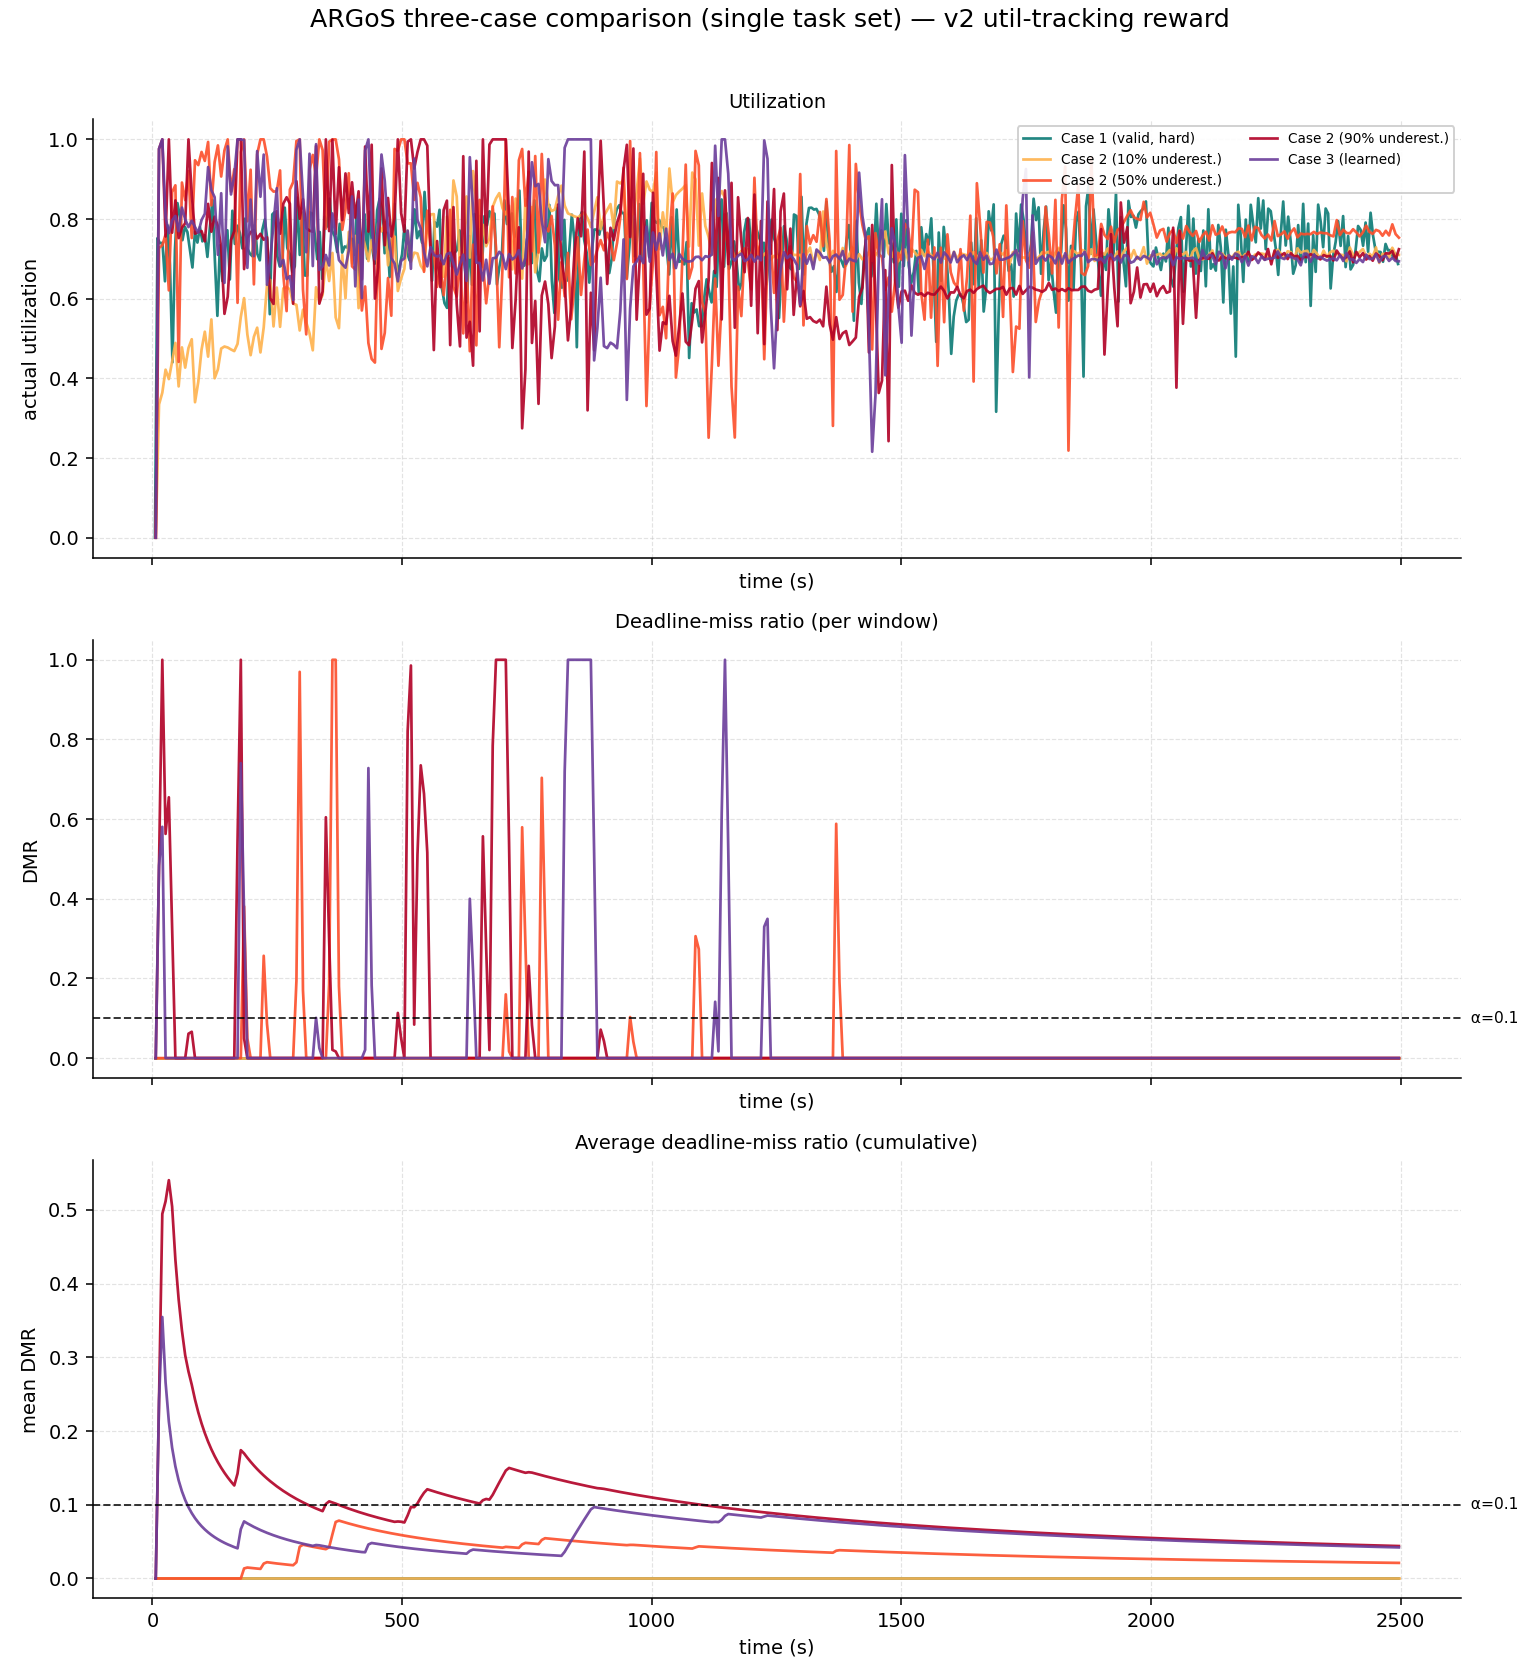
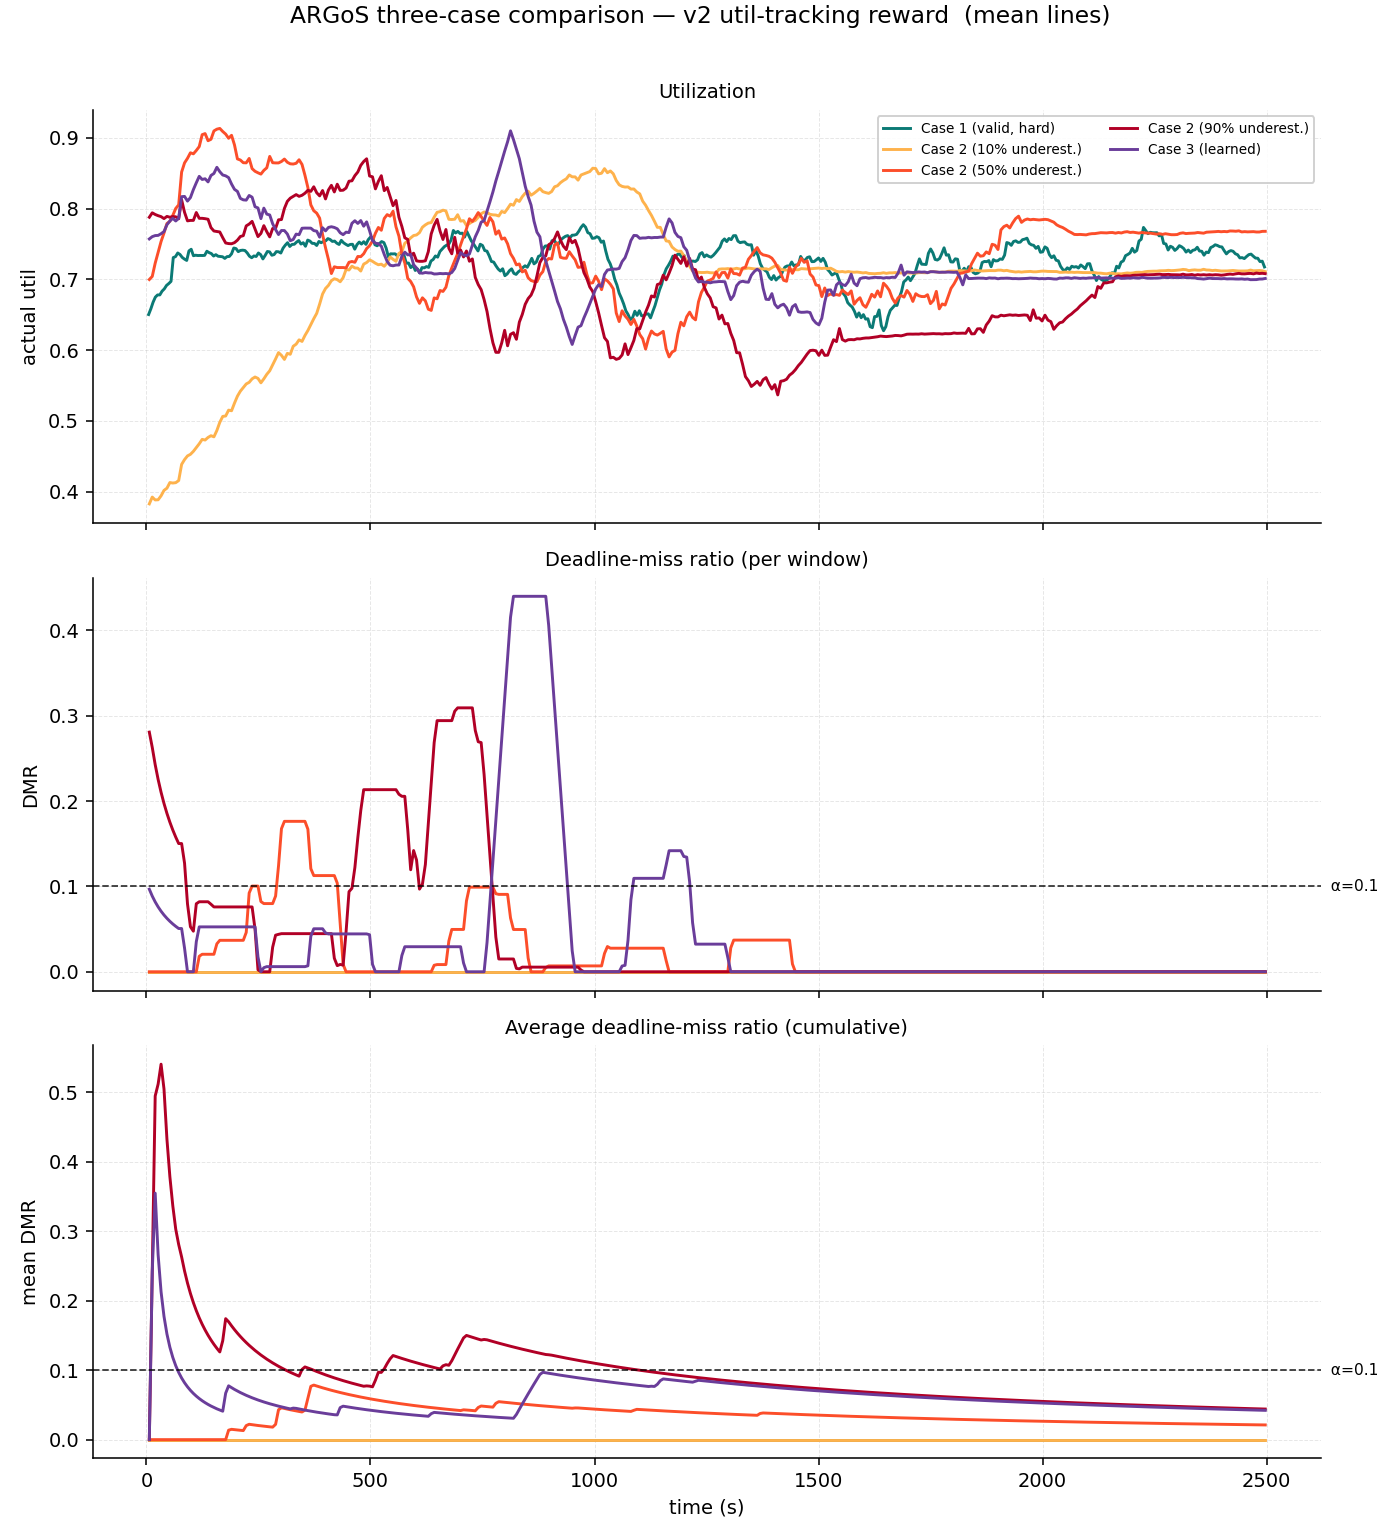
Figures: small multiples (mean line + min-max band) + mean-line overview
Replace the overlaid spaghetti of 5 noisy series with readable forms:
- utilization & per-window DMR: small multiples, one panel per case, rolling
  21-window mean line + min/max range band (shows trend + jitter envelope,
  no overlap).
- cumulative avg DMR: overlaid (already smooth; cross-case comparison).
- combined overview: mean lines only (raw jitter removed).
Regenerated for both paper and v2 reward sets.

diff --git a/scripts/fig_three_cases.py b/scripts/fig_three_cases.py
@@ -139,51 +139,90 @@ def _style(ax):
         ax.spines[sp].set_visible(False)
 
 
+def _rollband(y, w=21):
+    """Rolling (mean, min, max) over a centered window — the trend line + its range band."""
+    n, half = len(y), w // 2
+    m, lo, hi = [], [], []
+    for i in range(n):
+        a, b = max(0, i - half), min(n, i + half + 1)
+        seg = y[a:b]
+        m.append(sum(seg) / len(seg)); lo.append(min(seg)); hi.append(max(seg))
+    return m, lo, hi
+
+
 def plot():
     os.makedirs(FIG_DIR, exist_ok=True)
-    data = {tag: load_series(tag) for tag, *_ in cases()}
     specs = cases()
+    data = {tag: load_series(tag) for tag, *_ in specs}
+    rlabel = "Eq.1 QoS reward" if REWARD == "paper" else f"{REWARD} util-tracking reward"
 
-    # one combined 3-panel figure + three standalone figures
-    def draw(ax, key, title, ylabel, hline=None, smooth=1):
-        for tag, label, color, _ in specs:
+    # ---- small multiples: one panel per case, rolling-mean line + min/max range band ----
+    def small_multiples(key, metric_title, ylabel, hline=None, ylim=None):
+        n = len(specs)
+        fig, axes = plt.subplots(n, 1, figsize=(9, 1.55 * n), sharex=True, sharey=True)
+        for ax, (tag, label, color, _) in zip(axes, specs):
             d = data[tag]
-            y = _smooth(d[key], smooth) if smooth > 1 else d[key]
-            ax.plot(d["t"], y, color=color, lw=1.4, label=label, alpha=0.9)
-        if hline is not None:
-            ax.axhline(hline, color="black", ls="--", lw=1.0, alpha=0.8)
-            ax.text(ax.get_xlim()[1], hline, f"  α={hline}", va="center", fontsize=8)
-        ax.set_title(title, fontsize=10)
-        ax.set_ylabel(ylabel)
-        _style(ax)
+            m, lo, hi = _rollband(d[key])
+            ax.fill_between(d["t"], lo, hi, color=color, alpha=0.20, lw=0)   # range band
+            ax.plot(d["t"], m, color=color, lw=1.6)                           # mean line
+            if hline is not None:
+                ax.axhline(hline, color="black", ls="--", lw=0.8, alpha=0.7)
+            if ylim:
+                ax.set_ylim(*ylim)
+            ax.text(0.012, 0.86, label, transform=ax.transAxes, fontsize=8,
+                    color=color, fontweight="bold", va="top")
+            ax.grid(True, ls="--", alpha=0.3, lw=0.5)
+            for sp in ("top", "right"):
+                ax.spines[sp].set_visible(False)
+        axes[-1].set_xlabel("time (s)")
+        fig.supylabel(ylabel, fontsize=10)
+        fig.suptitle(f"{metric_title} — {rlabel}  (line = {21}-window mean, band = min–max)",
+                     fontsize=11, y=0.998)
+        fig.tight_layout(rect=[0.015, 0, 1, 0.99])
+        p = fig_path(key)
+        fig.savefig(p, dpi=140); plt.close(fig)
+        print("saved", p)
 
-    panels = [
-        ("util", "Utilization", "actual utilization", None, 1),
-        ("dmr", "Deadline-miss ratio (per window)", "DMR", ALPHA, 1),
-        ("avg_dmr", "Average deadline-miss ratio (cumulative)", "mean DMR", ALPHA, 1),
-    ]
+    small_multiples("util", "Utilization", "actual utilization", ylim=(0, 1.05))
+    small_multiples("dmr", "Deadline-miss ratio (per window)", "DMR", hline=ALPHA, ylim=(0, 1.05))
 
-    # combined
-    fig, axes = plt.subplots(3, 1, figsize=(11, 12), sharex=True)
-    for ax, (key, title, ylab, hl, sm) in zip(axes, panels):
-        draw(ax, key, title, ylab, hl, sm)
+    # ---- cumulative average DMR: overlaid (already smooth; cross-case comparison) ----
+    fig, ax = plt.subplots(figsize=(10, 5))
+    for tag, label, color, _ in specs:
+        ax.plot(data[tag]["t"], data[tag]["avg_dmr"], color=color, lw=1.6, label=label)
+    ax.axhline(ALPHA, color="black", ls="--", lw=1.0, alpha=0.8)
+    ax.text(ax.get_xlim()[1], ALPHA, f"  α={ALPHA}", va="center", fontsize=8)
+    ax.set_title(f"Average deadline-miss ratio (cumulative) — {rlabel}", fontsize=11)
+    ax.set_ylabel("mean DMR"); ax.set_xlabel("time (s)")
+    ax.grid(True, ls="--", alpha=0.3, lw=0.5)
+    for sp in ("top", "right"):
+        ax.spines[sp].set_visible(False)
+    ax.legend(loc="upper right", fontsize=8, ncol=2, framealpha=0.9)
+    fig.tight_layout(); fig.savefig(fig_path("avg_dmr"), dpi=140); plt.close(fig)
+    print("saved", fig_path("avg_dmr"))
+
+    # ---- combined overview: MEAN lines only (no raw jitter), 3 stacked panels ----
+    fig, axes = plt.subplots(3, 1, figsize=(10, 11), sharex=True)
+    combo = [("util", "Utilization", "actual util", None),
+             ("dmr", "Deadline-miss ratio (per window)", "DMR", ALPHA),
+             ("avg_dmr", "Average deadline-miss ratio (cumulative)", "mean DMR", ALPHA)]
+    for ax, (key, title, ylab, hl) in zip(axes, combo):
+        for tag, label, color, _ in specs:
+            y = _rollband(data[tag][key])[0] if key != "avg_dmr" else data[tag][key]
+            ax.plot(data[tag]["t"], y, color=color, lw=1.5, label=label)
+        if hl is not None:
+            ax.axhline(hl, color="black", ls="--", lw=0.9, alpha=0.8)
+            ax.text(ax.get_xlim()[1], hl, f"  α={hl}", va="center", fontsize=8)
+        ax.set_title(title, fontsize=10); ax.set_ylabel(ylab)
+        ax.grid(True, ls="--", alpha=0.3, lw=0.5)
+        for sp in ("top", "right"):
+            ax.spines[sp].set_visible(False)
     axes[0].legend(loc="upper right", fontsize=7, ncol=2, framealpha=0.9)
     axes[-1].set_xlabel("time (s)")
-    rlabel = "Eq.1 QoS reward" if REWARD == "paper" else f"{REWARD} util-tracking reward"
-    fig.suptitle(f"ARGoS three-case comparison (single task set) — {rlabel}", fontsize=13, y=0.995)
-    fig.tight_layout(rect=[0, 0, 1, 0.985])
-    combined = fig_path("combined")
-    fig.savefig(combined, dpi=140); plt.close(fig)
-    print("saved", combined)
-
-    # standalone
-    for key, title, ylab, hl, sm in panels:
-        fig, ax = plt.subplots(figsize=(10, 5))
-        draw(ax, key, title, ylab, hl, sm)
-        ax.legend(loc="upper right", fontsize=8, ncol=2, framealpha=0.9)
-        p = fig_path(key)
-        fig.tight_layout(); fig.savefig(p, dpi=140); plt.close(fig)
-        print("saved", p)
+    fig.suptitle(f"ARGoS three-case comparison — {rlabel}  (mean lines)", fontsize=12, y=0.997)
+    fig.tight_layout(rect=[0, 0, 1, 0.99])
+    fig.savefig(fig_path("combined"), dpi=140); plt.close(fig)
+    print("saved", fig_path("combined"))
 
 
 def main():
